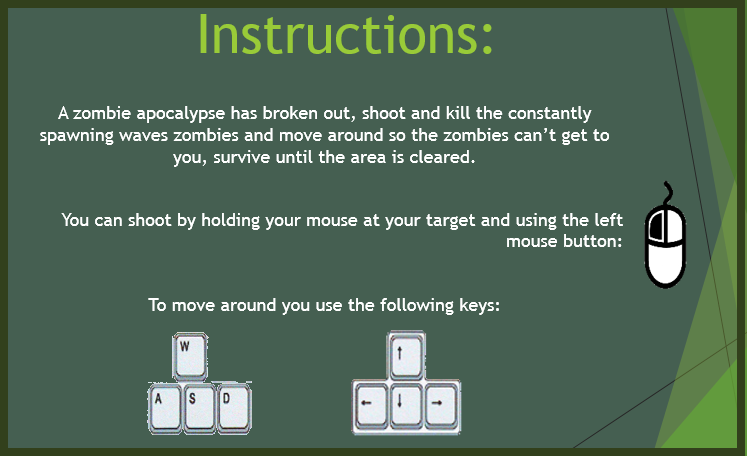
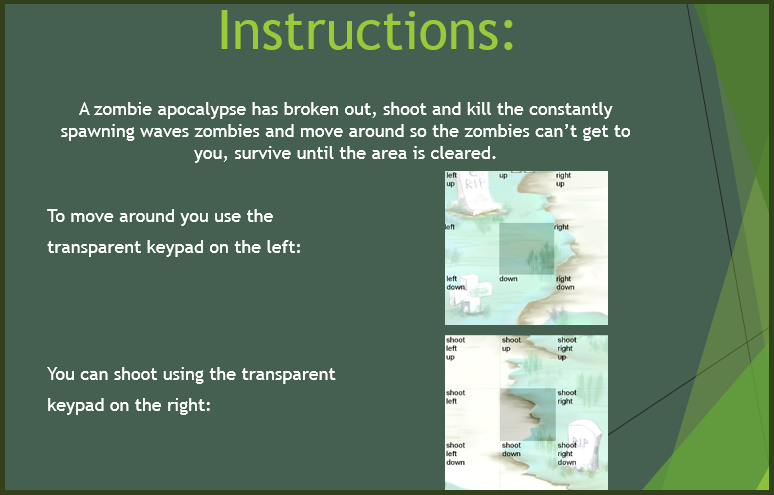
instruction working

diff --git a/project 4 algemeen/project 4 algemeen/Instructions.cs b/project 4 algemeen/project 4 algemeen/Instructions.cs
@@ -23,6 +23,7 @@ namespace project_4_algemeen
         Sound sound;
         List<Texture2D> All_images = new List<Texture2D>();
         Texture2D Texture;
+        platform platform;
 
         public Instructions(double screen_width, double screen_height, float relativeSize, SpriteFont font, GraphicsDeviceManager graphics, game game1, Sound sound, Action<game> Exit, List<Texture2D> All_images, platform platform, gameElement origin)
         {
@@ -35,6 +36,7 @@ namespace project_4_algemeen
             this.sound = sound;
             this.All_images = All_images;
             this.Texture = this.All_images[7];
+            this.platform = platform;
 
             Buttons.Add(new button((int)(screen_width - (screen_width / 6)), (int)(screen_height - screen_height / 6), (int)screen_width / 8, (int)screen_height / 8, "next", font, relativeSize, Color.White, Color.LightGray, (game)=>Next(game), graphics));
             Buttons.Add(new button((int)(screen_width - (screen_width / 3)), (int)(screen_height - screen_height / 6), (int)screen_width / 8, (int)screen_height / 8, "previous", font, relativeSize, Color.White, Color.LightGray, (game) => Previous(game), graphics));
@@ -57,7 +59,15 @@ namespace project_4_algemeen
 
         public void draw(SpriteBatch spritebatch)
         {
-            Rectangle rectangle = new Rectangle((int)(screen_width / 6), (int)((screen_height / 2) - (Texture.Height / 2)), Texture.Width * 2, Texture.Height * 2);
+            Rectangle rectangle;
+            if (platform == platform.android)
+            {
+                rectangle = new Rectangle((int)(screen_width / 24), (int)((screen_height / 4) - (Texture.Height / 4)), Texture.Width * 2, Texture.Height * 2);
+            }
+            else
+            {
+                rectangle = new Rectangle((int)(screen_width / 6), (int)((screen_height / 2) - (Texture.Height / 2)), Texture.Width, Texture.Height);
+            }
             spritebatch.Draw(Texture, rectangle, Color.White);
             foreach (button b in Buttons)
             {
